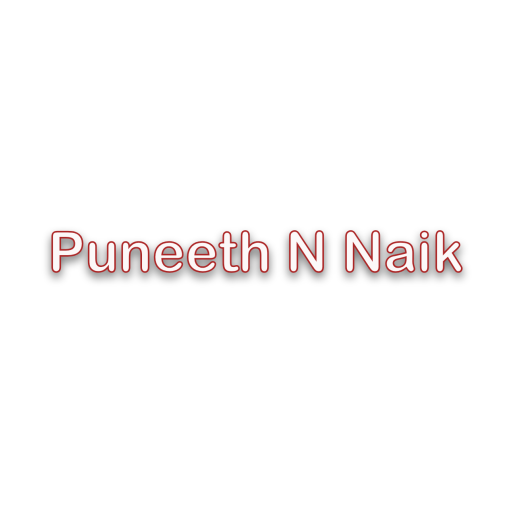
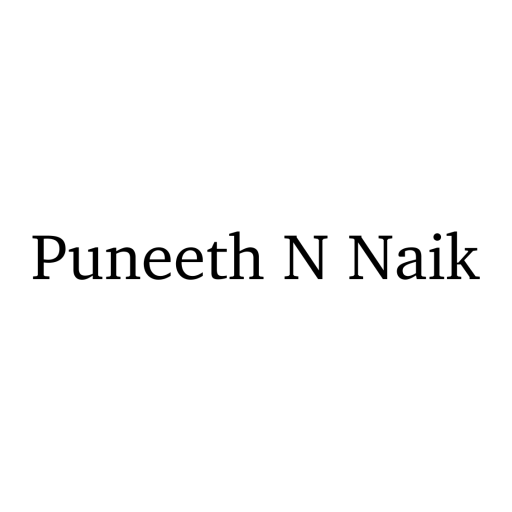
modified graphics and finalised transition animations

Changed region(s): [[0.0625, 0.4375, 0.9375, 0.5625]]

diff --git a/app/src/main/java/com/example/puneeth/resumex/HomePage.java b/app/src/main/java/com/example/puneeth/resumex/HomePage.java
@@ -1,35 +1,53 @@
 package com.example.puneeth.resumex;
 
+import android.app.ActivityOptions;
 import android.content.Intent;
 import android.media.Image;
 import android.support.v7.app.AppCompatActivity;
 import android.os.Bundle;
+import android.util.Pair;
 import android.view.View;
 import android.widget.ImageView;
 import android.widget.LinearLayout;
+import android.widget.TextView;
 
 public class HomePage extends AppCompatActivity {
     private ImageView profilePhoto;
-    private ImageView profileName;
+    private TextView profileName;
     private LinearLayout academics;
     private LinearLayout portfolio;
     private LinearLayout accomplishments;
+
+    private ImageView academicsIcon;
+    private ImageView portfolioIcon;
+    private ImageView accomplishmentsIcon;
     @Override
     protected void onCreate(Bundle savedInstanceState) {
         super.onCreate(savedInstanceState);
         setContentView(R.layout.activity_home_page);
         getSupportActionBar().hide();
         profilePhoto = (ImageView) findViewById(R.id.profile_photo);
-        profileName = (ImageView) findViewById(R.id.profile_text);
+        profileName = (TextView) findViewById(R.id.profile_text);
         academics = (LinearLayout) findViewById(R.id.academics);
         portfolio = (LinearLayout) findViewById(R.id.portfolio);
         accomplishments = (LinearLayout) findViewById(R.id.accomplishments);
+
+        academicsIcon = (ImageView) findViewById(R.id.academics_icon);
+        portfolioIcon = (ImageView) findViewById(R.id.portfolio_icon);
+        accomplishmentsIcon = (ImageView) findViewById(R.id.accomplishments_icon);
 
         academics.setOnClickListener(new View.OnClickListener() {
             @Override
             public void onClick(View v) {
                 Intent sharedAcademics = new Intent(HomePage.this, academicsPage.class);
-                startActivity(sharedAcademics);
+                Pair[] pairs = new Pair[3];
+                pairs[0] = new Pair<View, String>(profilePhoto, "profile_photo");
+                pairs[1] = new Pair<View, String>(profileName, "profile_text");
+                pairs[2] = new Pair<View, String>(academicsIcon, "academics_icon");
+
+                ActivityOptions options = ActivityOptions.makeSceneTransitionAnimation(HomePage.this, pairs);
+
+                startActivity(sharedAcademics, options.toBundle());
             }
         });
 
@@ -37,7 +55,14 @@ public class HomePage extends AppCompatActivity {
             @Override
             public void onClick(View v) {
                 Intent sharedAccomplishments = new Intent(HomePage.this, accomplishmentsPage.class);
-                startActivity(sharedAccomplishments);
+                Pair[] pairs = new Pair[3];
+                pairs[0] = new Pair<View, String>(profilePhoto, "profile_photo");
+                pairs[1] = new Pair<View, String>(profileName, "profile_text");
+                pairs[2] = new Pair<View, String>(accomplishmentsIcon, "accomplishments_icon");
+
+                ActivityOptions options = ActivityOptions.makeSceneTransitionAnimation(HomePage.this, pairs);
+
+                startActivity(sharedAccomplishments, options.toBundle());
             }
         });
 
@@ -46,7 +71,14 @@ public class HomePage extends AppCompatActivity {
             @Override
             public void onClick(View v) {
                 Intent sharedPortfolio = new Intent(HomePage.this, portfolioPage.class);
-                startActivity(sharedPortfolio);
+                Pair[] pairs = new Pair[3];
+                pairs[0] = new Pair<View, String>(profilePhoto, "profile_photo");
+                pairs[1] = new Pair<View, String>(profileName, "profile_text");
+                pairs[2] = new Pair<View, String>(portfolioIcon, "portfolio_icon");
+
+                ActivityOptions options = ActivityOptions.makeSceneTransitionAnimation(HomePage.this, pairs);
+
+                startActivity(sharedPortfolio, options.toBundle());
             }
         });
     }

diff --git a/app/src/main/java/com/example/puneeth/resumex/accomplishmentsPage.java b/app/src/main/java/com/example/puneeth/resumex/accomplishmentsPage.java
@@ -8,6 +8,6 @@ public class accomplishmentsPage extends AppCompatActivity {
     @Override
     protected void onCreate(Bundle savedInstanceState) {
         super.onCreate(savedInstanceState);
-        setContentView(R.layout.activity_academics_page);
+        setContentView(R.layout.activity_accomplishments_page);
     }
 }

diff --git a/app/src/main/java/com/example/puneeth/resumex/portfolioPage.java b/app/src/main/java/com/example/puneeth/resumex/portfolioPage.java
@@ -8,6 +8,6 @@ public class portfolioPage extends AppCompatActivity {
     @Override
     protected void onCreate(Bundle savedInstanceState) {
         super.onCreate(savedInstanceState);
-        setContentView(R.layout.activity_academics_page);
+        setContentView(R.layout.activity_portfolio_page);
     }
 }
